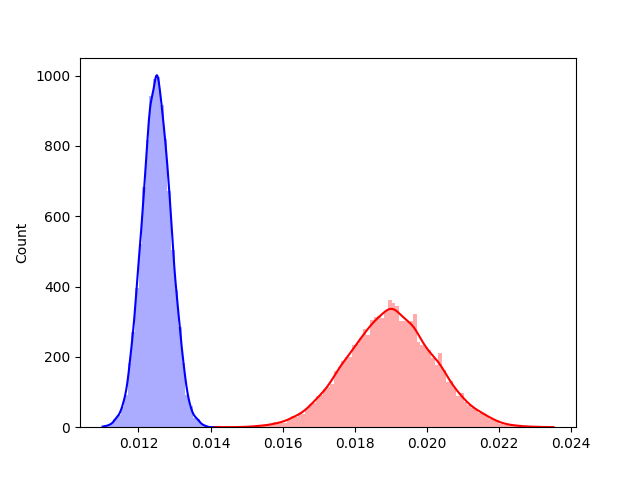
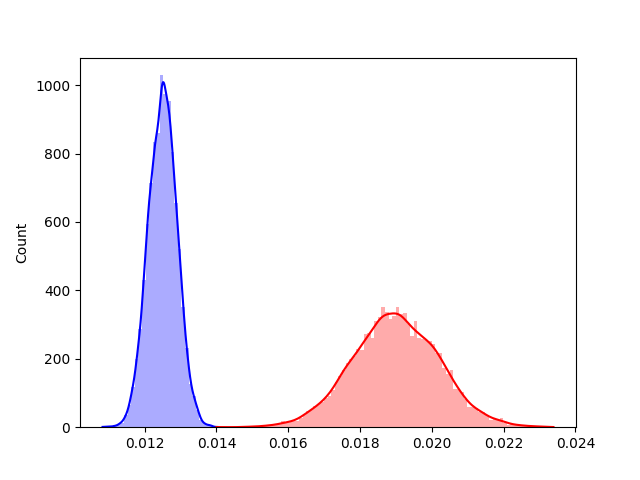
last adjustments hopefully

diff --git a/scripts/lga/lga_training.py b/scripts/lga/lga_training.py
@@ -65,19 +65,25 @@ def map_to_sample_sites_identity(sample):
     return {'LGA_0_mean_service_time': sample}
 
 
+a = .1
 
-def single_particle_y_given_z(model, sample):
-    """
-    log p(y|z)
-    """
-    conditioning_dict = map_to_sample_sites_identity(sample)
+def transform_sample(sample):
+    # return .02+.015*torch.tanh(a*sample)
+    return .004 * sample + .02
 
-    model_trace = pyro.poutine.trace(
-        pyro.poutine.condition(model, data=conditioning_dict)
-    ).get_trace()
-    model_logprob = model_trace.log_prob_sum()
 
-    return (model_logprob).squeeze()
+# def single_particle_y_given_z(model, sample):
+#     """
+#     log p(y|z)
+#     """
+#     conditioning_dict = map_to_sample_sites_identity(sample)
+
+#     model_trace = pyro.poutine.trace(
+#         pyro.poutine.condition(model, data=conditioning_dict)
+#     ).get_trace()
+#     model_logprob = model_trace.log_prob_sum()
+
+#     return (model_logprob).squeeze()
 
 
 
@@ -210,13 +216,14 @@ def train(
         return logprob # i think technically this is  abit off but whatever just approx for now.
     
     # now define guide
-    n_context = 2
+    n_context = 1
     hidden_dim = 2
     if posterior_guide == "nsf":
        guide = zuko.flows.NSF(
             features=mst_split,
             context=n_context,
             hidden_features=(hidden_dim, hidden_dim),
+            bins=2,
         ).to(device)
     elif posterior_guide == "cnf":
         guide = zuko.flows.CNF(
@@ -228,6 +235,8 @@ def train(
         guide = ConditionalGaussianMixture(
             n_context=n_context, 
             n_features=mst_split,
+            # means=torch.tensor([.015, .015, .015]).reshape(3,1).to(device),
+            # log_vars=torch.log(torch.tensor([.0001, .0001, .0001])).reshape(3,1).to(device),
         )
     else:
         raise ValueError
@@ -280,7 +289,7 @@ def train(
             super().__init__()
             self.device = device
             self.visibility_threshold = torch.nn.Parameter(
-                torch.tensor(3.0).to(device),
+                torch.tensor(2.0).to(device),
                 requires_grad=True
             )
             self.ceiling_threshold = torch.nn.Parameter(
@@ -302,7 +311,7 @@ def train(
             super().__init__()
             self.device = device
             self.visibility_threshold = torch.nn.Parameter(
-                torch.tensor(3.0).to(device),
+                torch.tensor(2.0).to(device),
                 requires_grad=True
             ) if v is None else v
             self.ceiling_threshold = torch.nn.Parameter(
@@ -329,8 +338,8 @@ def train(
                 )
             ).unsqueeze(dim=-1)
         
-    wt = WeatherThreshold(100.0)
-    ct = ClusterThreshold(100.0, wt.visibility_threshold, wt.ceiling_threshold)
+    wt = WeatherThreshold(50.0)
+    ct = ClusterThreshold(50.0)#, wt.visibility_threshold, wt.ceiling_threshold)
 
     prior_mixture = PriorMixture(failure_prior, nominal_prior)
 
@@ -344,13 +353,15 @@ def train(
 
         prior_label = wt.assign_label(visibility, ceiling)
         flabel = ct.assign_label(visibility, ceiling, num_flights)
-        posterior_label = torch.cat((1-flabel, flabel))
+        # posterior_label = torch.cat((1-flabel, flabel))
+        posterior_label = flabel
 
         posterior_samples = guide(posterior_label).rsample((n,))
-        posterior_logprobs = guide(posterior_label).log_prob(posterior_samples)
+        posterior_logprobs = .1 * guide(posterior_label).log_prob(posterior_samples) \
+            # + transform_sample_deriv(posterior_samples)
 
-        s_logprobs = s_guide_dist.log_prob(posterior_samples)
-        prior_logprobs = prior_mixture.log_prob(posterior_samples, prior_label)
+        s_logprobs = 10*s_guide_dist.log_prob(transform_sample(posterior_samples))
+        prior_logprobs = prior_mixture.log_prob(transform_sample(posterior_samples), prior_label)
 
         y_given_c_logprobs = y_given_c_log_prob(
             model_logprobs, 
@@ -360,13 +371,13 @@ def train(
         objective = (
             s_logprobs + prior_logprobs - posterior_logprobs
         ).mean() - y_given_c_logprobs
-        
-        print(
-            prior_label.detach().numpy(), 
-            posterior_label.detach().numpy(), 
-            s_logprobs.item(), prior_logprobs.item(), 
-            posterior_logprobs.item(), y_given_c_logprobs.item()
-        )
+
+        # print(
+        #     prior_label.detach().numpy(), 
+        #     posterior_label.detach().numpy(), 
+        #     s_logprobs.item(), prior_logprobs.item(), 
+        #     posterior_logprobs.item(), y_given_c_logprobs.item()
+        # )
 
         return -objective # negate to make it a loss
     
@@ -456,27 +467,35 @@ def train(
         loss = total_objective_fn(subsamples,)
         loss.backward()
 
-        guide_grad_norm = torch.nn.utils.clip_grad_norm_(
-            guide.parameters(), 100.0 # TODO :grad clip param
-        )
-        guide_optimizer.step()
-        guide_scheduler.step()
+        if i < 200:
+            guide_grad_norm = torch.nn.utils.clip_grad_norm_(
+                guide.parameters(), 100.0 # TODO :grad clip param
+            )
+            guide_optimizer.step()
+            guide_scheduler.step()
 
-        wt_grad_norm = torch.nn.utils.clip_grad_norm_(
-            wt.parameters(), 10.0 # TODO :grad clip param
-        )
-        ct_grad_norm = torch.nn.utils.clip_grad_norm_(
-            ct.parameters(), 10.0 # TODO :grad clip param
-        )
-        wt_optimizer.step()
-        wt_scheduler.step()
-        ct_optimizer.step()
-        ct_scheduler.step()
+        else:
+            wt_grad_norm = torch.nn.utils.clip_grad_norm_(
+                wt.parameters(), 10.0 # TODO :grad clip param
+            )
+            ct_grad_norm = torch.nn.utils.clip_grad_norm_(
+                ct.parameters(), 10.0 # TODO :grad clip param
+            )
+            wt_optimizer.step()
+            wt_scheduler.step()
+            ct_optimizer.step()
+            ct_scheduler.step()
 
-        ct.num_flights_threshold.data.clamp_(0.0, 1.1)
+            ct.num_flights_threshold.data.clamp_(0.0, 1.1)
+            wt.ceiling_threshold.data.clamp_(0.1, 6.0)
+            wt.visibility_threshold.data.clamp_(0.1, 6.0)
+            ct.ceiling_threshold.data.clamp_(0.1, 6.0)
+            ct.visibility_threshold.data.clamp_(0.1, 6.0)
 
         loss = loss.detach()
         losses.append(loss)
+
+        # print(ct.visibility_threshold, ct.ceiling_threshold, ct.num_flights_threshold)
 
         # posterior_samples = torch.exp(guide.sample((n_samples,)))
 
@@ -489,20 +508,35 @@ def train(
         pbar.set_description(desc)
                 
         if i % plot_every == 0 or i == svi_steps - 1:
-            labels = [torch.tensor([1-a, a]).to(device) for a in (0.0, 1.0)]
+            # labels = [torch.tensor([1-a, a]).to(device) for a in (0.0, 1.0)]
+            labels = [torch.tensor([a]).to(device) for a in (0.0, 1.0)]
             fig, ax = plt.subplots()
-            for label, color in zip(labels, ['b', 'r']):
-                samples = guide(label).sample((n_samples,))
-                sns.histplot(
-                    samples, 
-                    color=color, 
-                    alpha=.5, 
-                    fill=True, 
-                    edgecolor='k', 
-                    linewidth=0,
-                    ax=ax,
-                )
-            plt.xlim(0,.040)
+            # for label, color in zip(labels, ['b', 'r']):
+            samples = transform_sample(guide(labels[0]).sample((n_samples,)))
+            bins = np.arange(.005, .0352, .0002)
+            ax.hist(
+                samples, 
+                color='b', 
+                alpha=.5, 
+                fill=True, 
+                edgecolor='k', 
+                bins=bins,
+                linewidth=0,
+                label='nominal',
+            )
+            samples = transform_sample(guide(labels[1]).sample((n_samples,)))
+            ax.hist(
+                samples, 
+                color='r', 
+                alpha=.5, 
+                fill=True, 
+                edgecolor='k',
+                bins=bins,
+                linewidth=0,
+                label='failure',
+            )
+            plt.xlim(0.005,.035)
+            plt.legend()
             wandb.log({f"posteriors": wandb.Image(fig)}, commit=False)
             plt.close(fig)
             
@@ -533,7 +567,10 @@ def train(
         #     pyro.get_param_store().save(os.path.join(save_path, "params.pth"))
         #     torch.save(guide.state_dict(), os.path.join(save_path, "guide.pth"))
 
-        # wandb.log({"ELBO": loss})
+        # labels = [torch.tensor([1-a, a]).to(device) for a in (0.0, 1.0)]
+        labels = [torch.tensor([a]).to(device) for a in (0.0, 1.0)]
+        samples = [transform_sample(guide(label).sample((n_samples,))).detach() for label in labels]
+
         log_dict = {
             "ELBO/loss (units = nats per dim)": loss.item(), 
             "wt/visibility": wt.visibility_threshold.data.item(),
@@ -541,6 +578,10 @@ def train(
             "ct/visibility": ct.visibility_threshold.data.item(),
             "ct/ceiling": ct.ceiling_threshold.data.item(),
             "ct/num_flights": ct.num_flights_threshold.data.item(),
+            "q/mean nominal": samples[0].mean().item(),
+            "q/mean failure": samples[1].mean().item(),
+            "q/std nominal": torch.std(samples[0]).item(),
+            "q/std failure": torch.std(samples[1]).item(),
         }
         # for i in range(len(mst_mles)):
         #     log_dict[f"mean service time mle/{i} (hours)"] = mst_mles[i]

diff --git a/scripts/utils.py b/scripts/utils.py
@@ -180,13 +180,24 @@ class MixtureOfDiagNormals(dist.MixtureOfDiagNormals):
 
 
 class ConditionalGaussianMixture(LazyDistribution):
-    def __init__(self, n_context: int, n_features: int, means=None, log_vars=None):
+    def __init__(self, n_context: int, n_features: int, means=None, log_vars=None, no_exp=False):
         super().__init__()
         self.n_context = n_context
         self.n_features = n_features
 
-        self.means = torch.nn.Parameter(torch.randn(n_context + 1, n_features))
-        self.log_vars = torch.nn.Parameter(torch.randn(n_context + 1, n_features))
+        if means is None:
+            self.means = torch.nn.Parameter(0.015+0.01*torch.randn(n_context + 1, n_features))
+        else:
+            self.means = torch.nn.Parameter(means)
+        if log_vars is None:
+            self.log_vars = torch.nn.Parameter(-13.0-torch.randn(n_context + 1, n_features))
+        else:
+            self.log_vars = torch.nn.Parameter(log_vars)
+
+        # print(self.means.data)
+        # print(self.log_vars.data)
+
+        self.no_exp = no_exp
 
     def forward(self, c: Any = None) -> torch.distributions.Distribution:
         r"""
@@ -205,6 +216,9 @@ class ConditionalGaussianMixture(LazyDistribution):
         # Wherever the row is all zero, make just the first element 1
         zero_rows = c.sum(dim=-1) == 0
         c[zero_rows, 0] = 1.0
+
+        # print(self.log_vars)
+        # print(self.log_vars.sqrt())
 
         return MixtureOfDiagNormals(
             locs=self.means,
